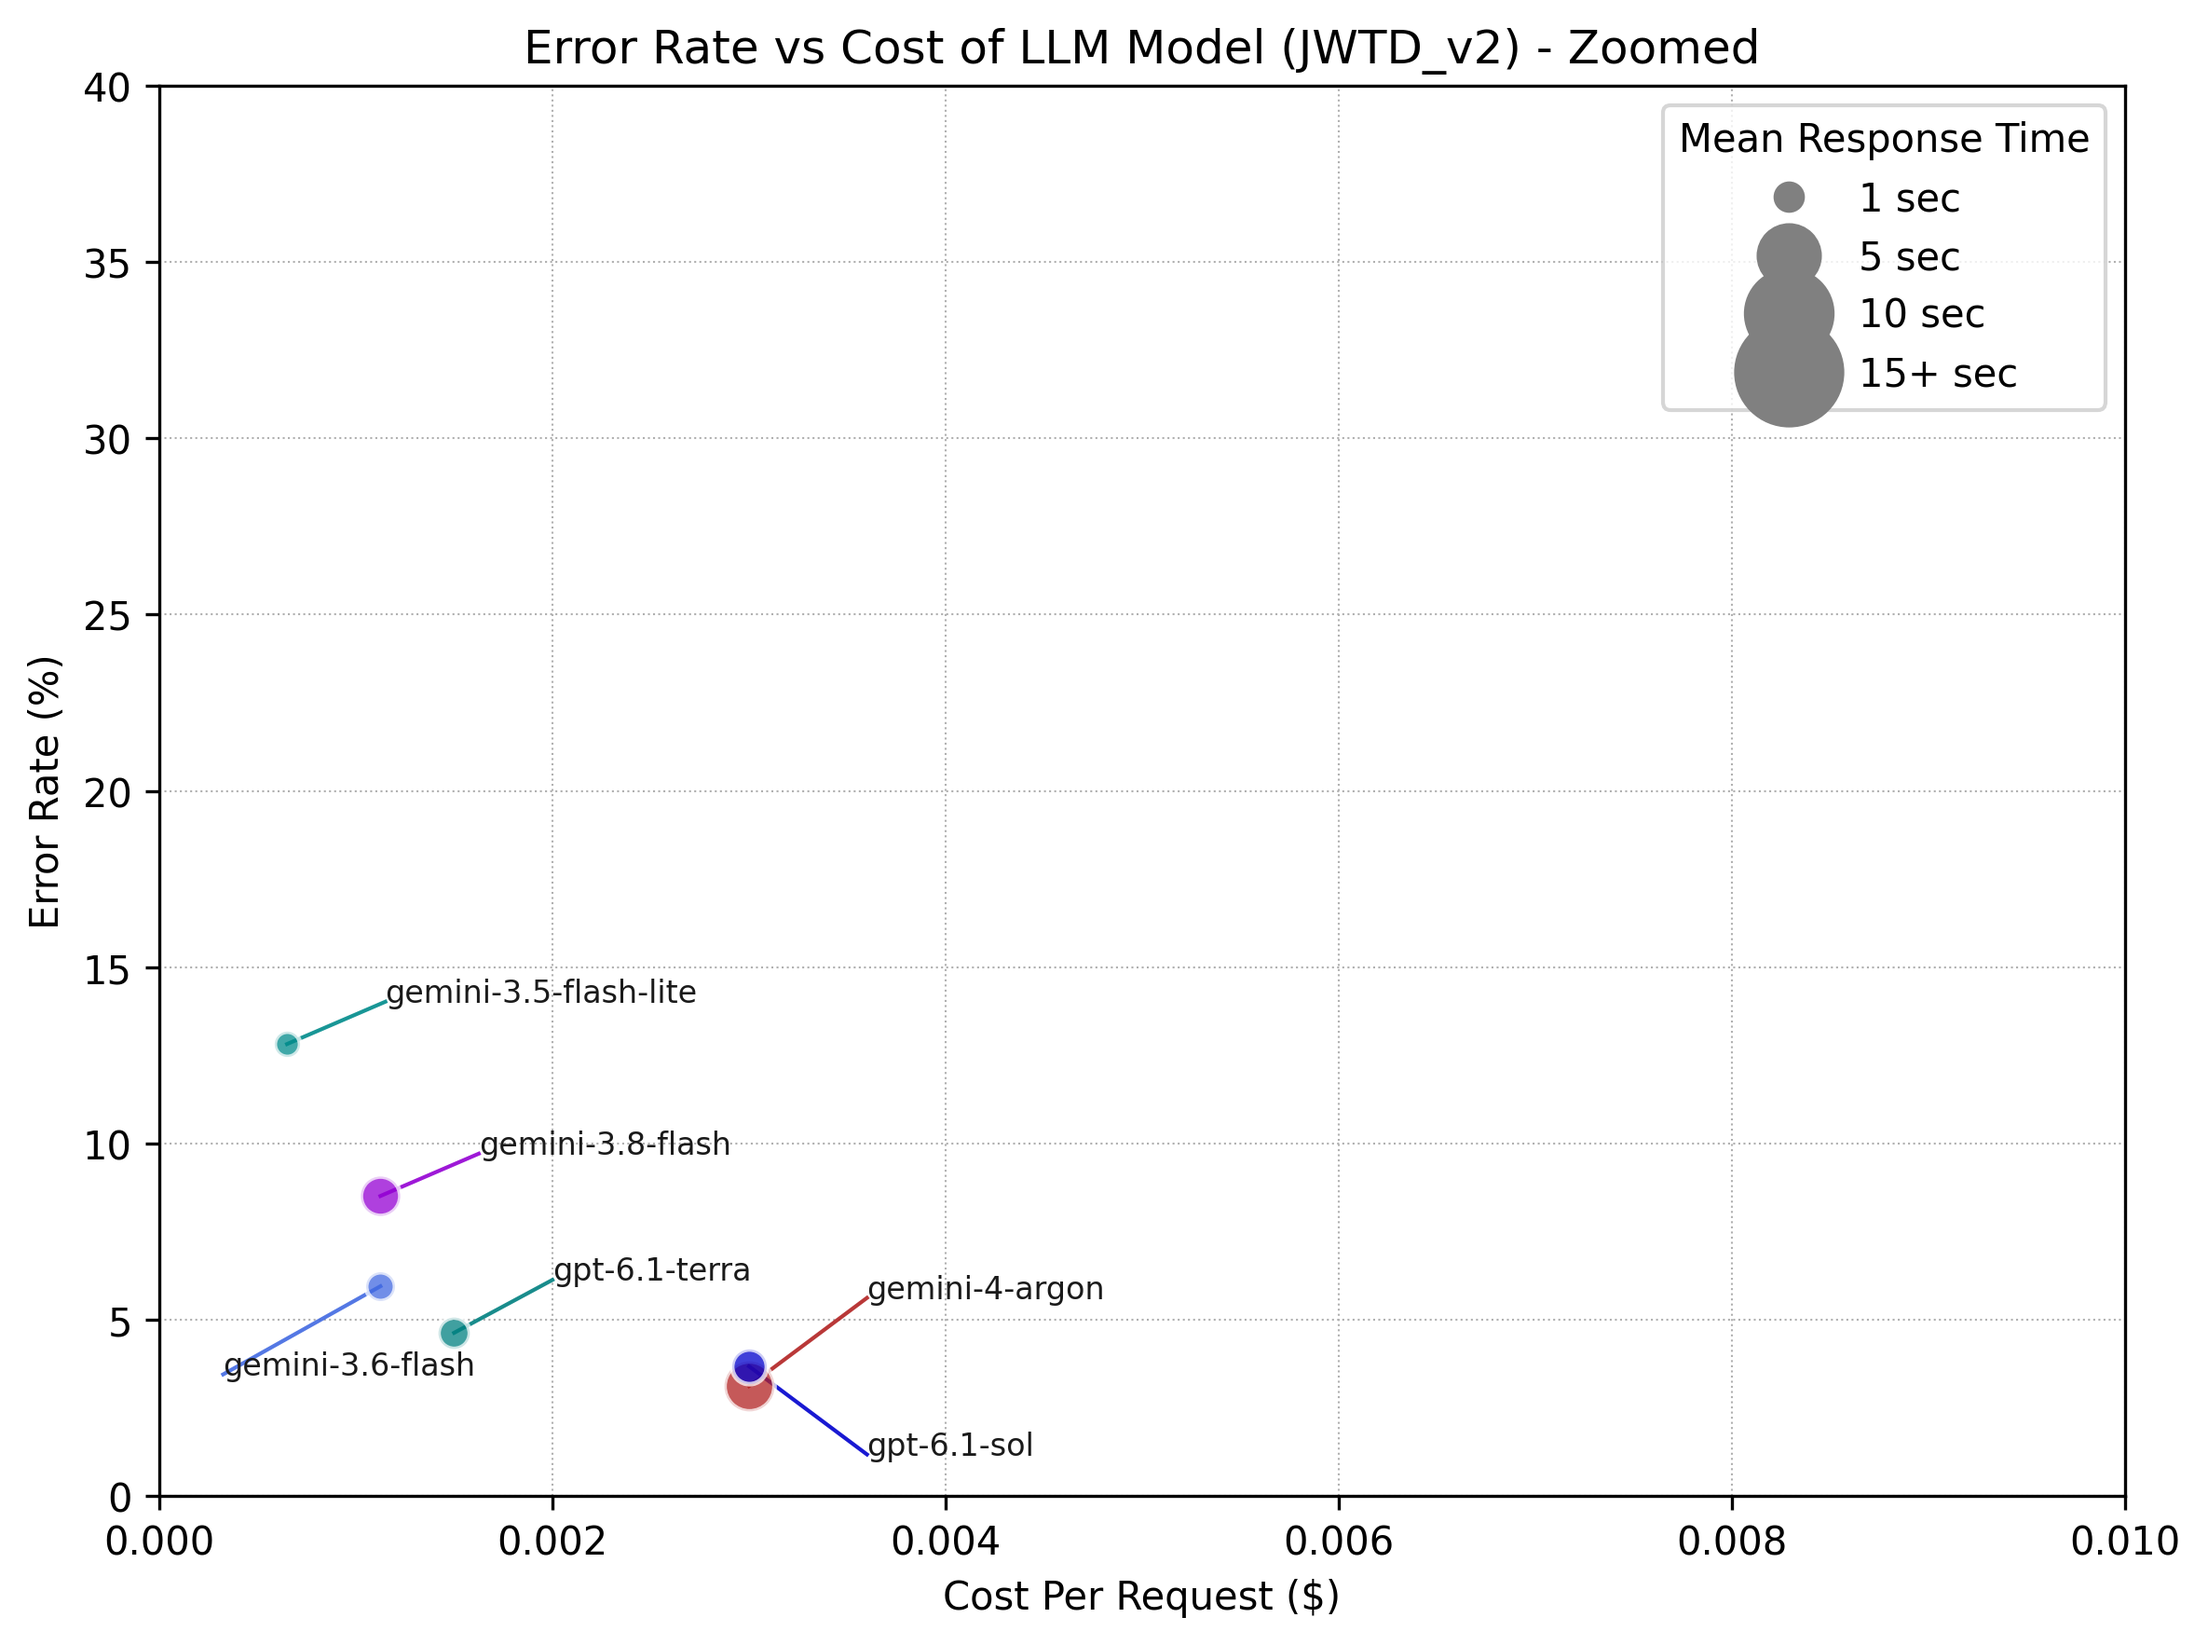
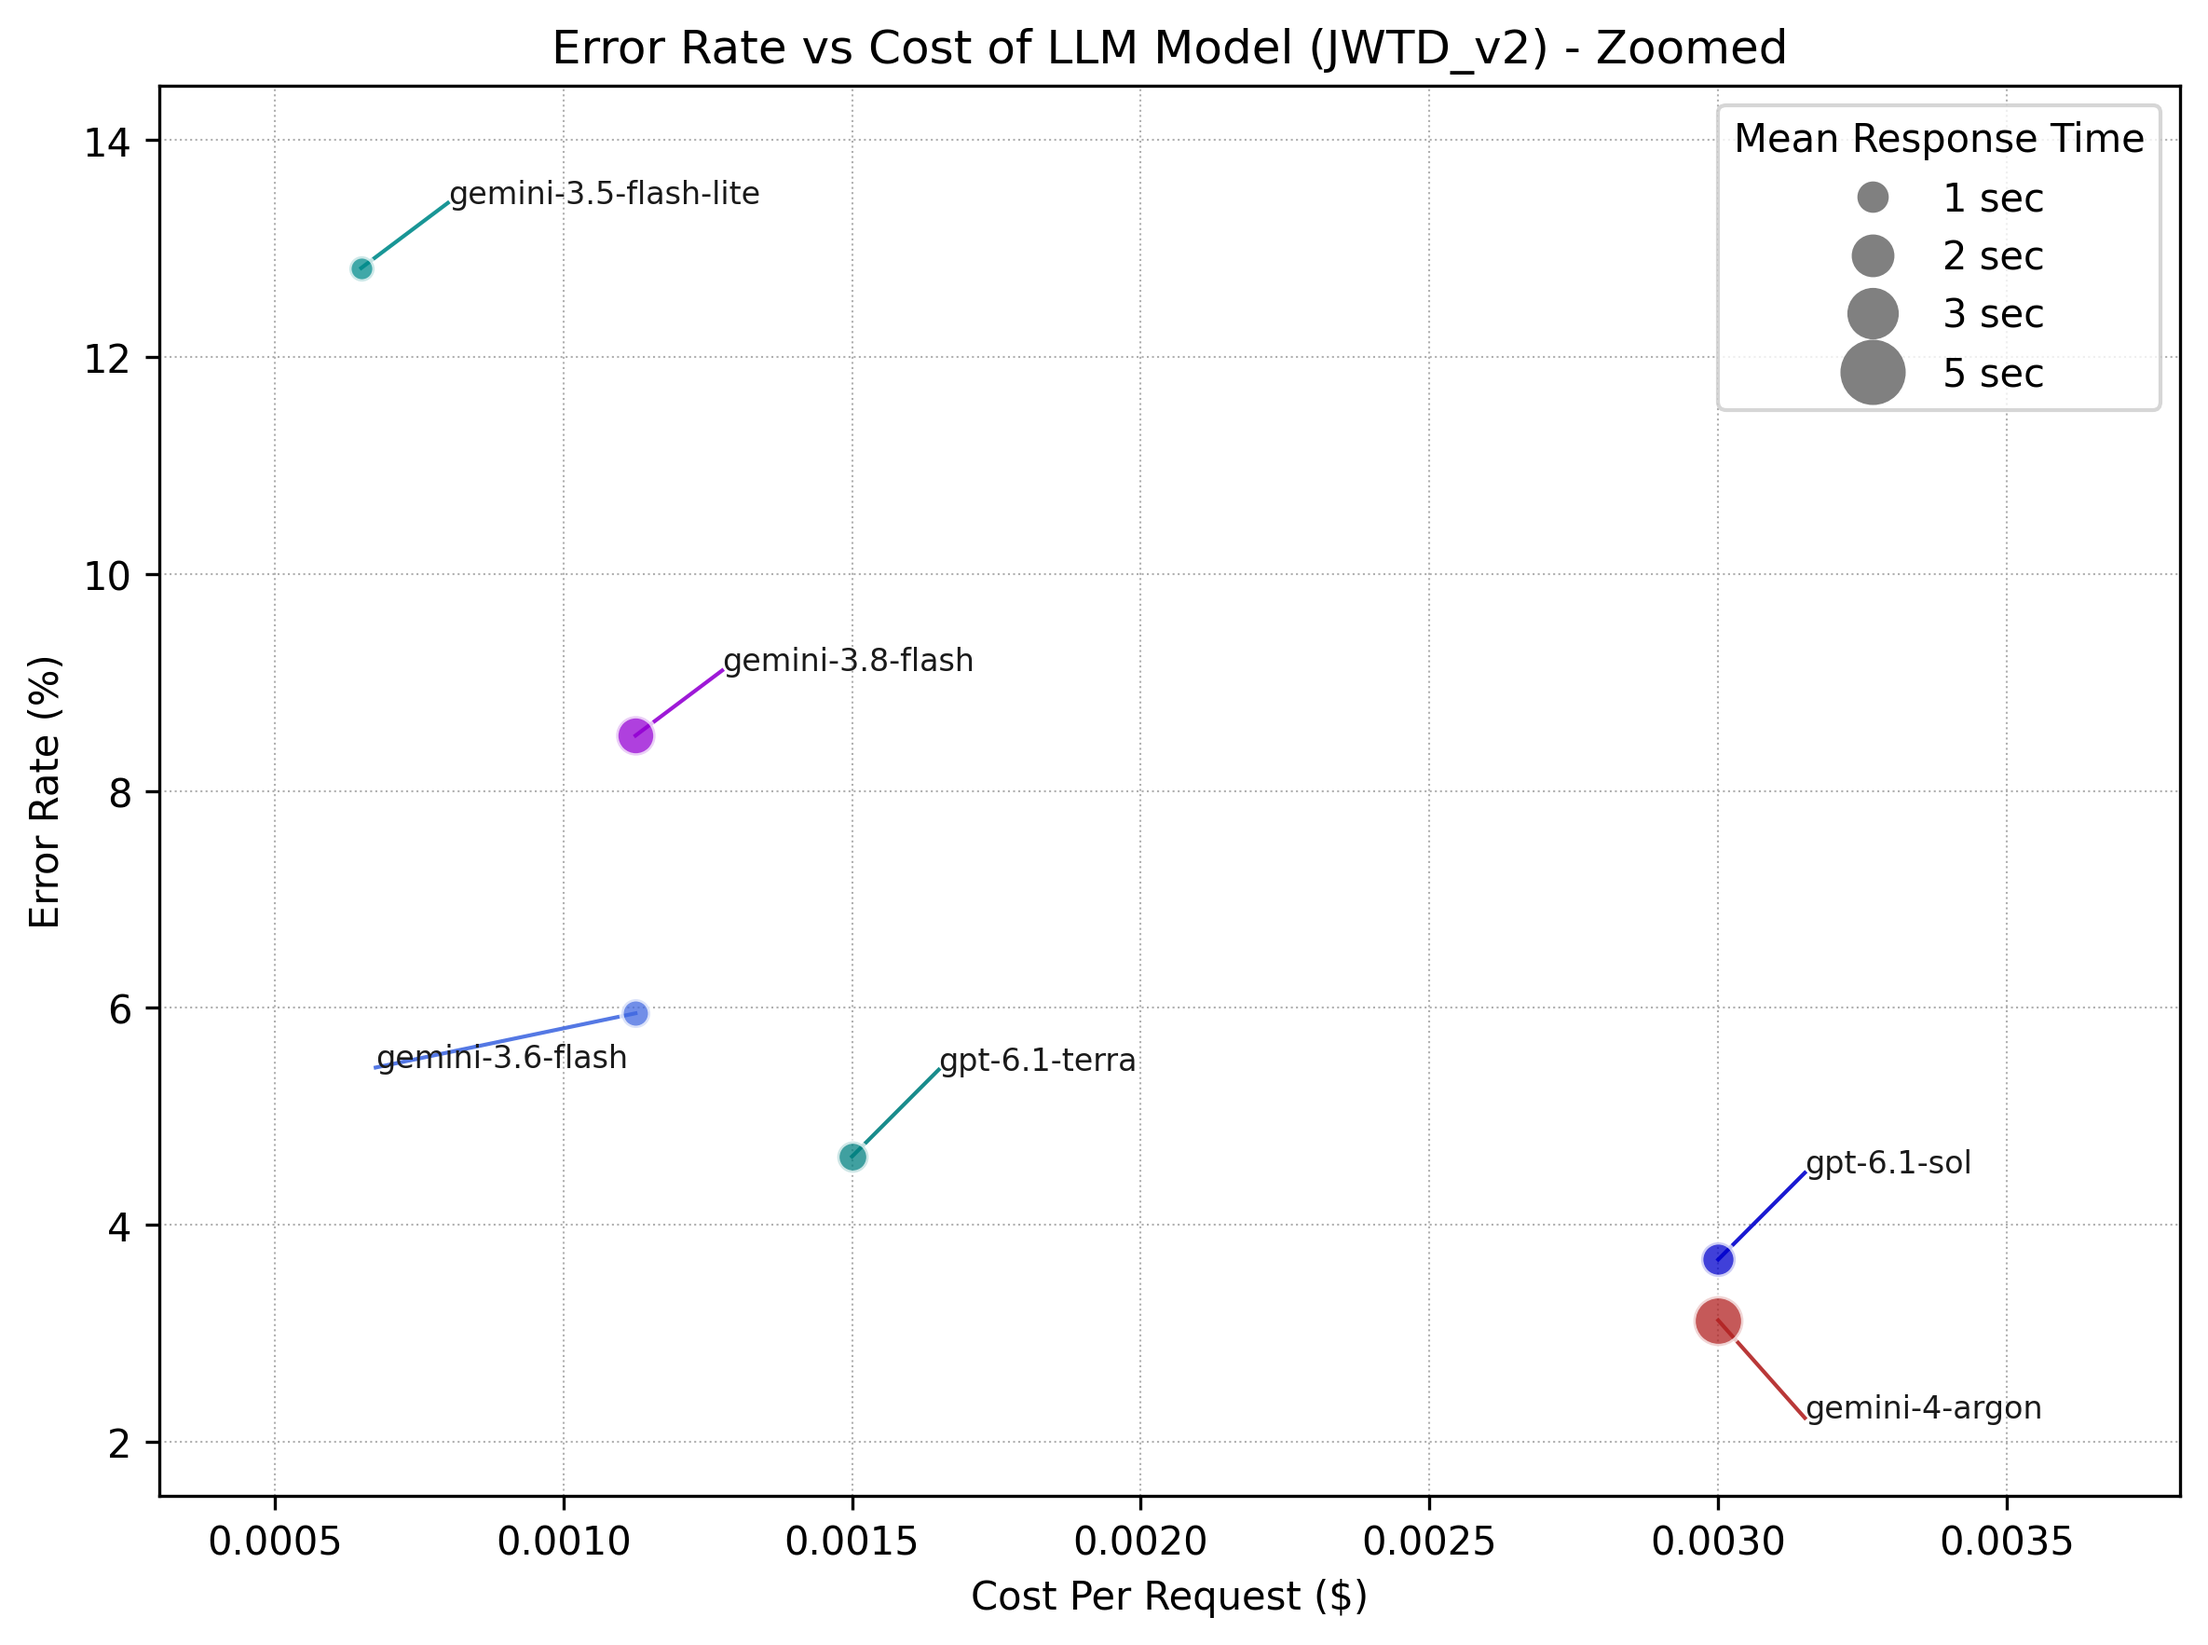
Narrow zoomed axes in error rate vs cost plot to fill data spaciously (#205)

diff --git a/benchmark/plot_errorrate_vs_cost_jwtd_v2.py b/benchmark/plot_errorrate_vs_cost_jwtd_v2.py
@@ -78,9 +78,12 @@ def _darken_for_readability(color_name: str) -> str:
     return override.get(color_name, color_name)
 
 
-def build_legend():
+def build_legend(range_mode: int = 0):
     """平均応答時間の凡例を描画"""
-    seconds_legend = [1, 5, 10, SIZE_CAP_SEC]
+    if range_mode == 1:
+        seconds_legend = [1, 2, 3, 5]
+    else:
+        seconds_legend = [1, 5, 10, SIZE_CAP_SEC]
     legend_size_handles: List[Line2D] = []
     for sec in seconds_legend:
         size = sec * SCALE
@@ -114,7 +117,7 @@ def main():
         type=int,
         default=0,
         choices=[0, 1],
-        help="Axis range mode: 0=default (0-70%%, auto x), 1=zoomed (0-40%%, 0-0.010$)",
+        help="Axis range mode: 0=default (0-70%%, auto x), 1=zoomed (1.5-14.5%%, 0.0003-0.0038$)",
     )
     args = parser.parse_args()
 
@@ -127,14 +130,24 @@ def main():
     ]
     plottable.sort(key=lambda kv: kv[1]["elapsed"], reverse=True)
 
-    label_positions = {
-        "gemini-3.5-flash-lite": (0.000650 + 0.0005, 12.82 + 1.2),
-        "gemini-3.8-flash":      (0.001125 + 0.0005, 8.51 + 1.2),
-        "gemini-3.6-flash":      (0.001125 - 0.0008, 5.95 - 2.5),
-        "gemini-4-argon":        (0.003000 + 0.0006, 3.12 + 2.5),
-        "gpt-6.1-terra":         (0.001500 + 0.0005, 4.63 + 1.5),
-        "gpt-6.1-sol":           (0.003000 + 0.0006, 3.68 - 2.5),
-    }
+    if args.range == 0:
+        label_positions = {
+            "gemini-3.5-flash-lite": (0.000650 + 0.0005, 12.82 + 1.2),
+            "gemini-3.8-flash":      (0.001125 + 0.0005, 8.51 + 1.2),
+            "gemini-3.6-flash":      (0.001125 - 0.0008, 5.95 - 2.5),
+            "gemini-4-argon":        (0.003000 + 0.0006, 3.12 + 2.5),
+            "gpt-6.1-terra":         (0.001500 + 0.0005, 4.63 + 1.5),
+            "gpt-6.1-sol":           (0.003000 + 0.0006, 3.68 - 2.5),
+        }
+    else:
+        label_positions = {
+            "gemini-3.5-flash-lite": (0.000650 + 0.00015, 12.82 + 0.6),
+            "gemini-3.8-flash":      (0.001125 + 0.00015, 8.51 + 0.6),
+            "gemini-3.6-flash":      (0.001125 - 0.00045, 5.95 - 0.5),
+            "gpt-6.1-terra":         (0.001500 + 0.00015, 4.63 + 0.8),
+            "gpt-6.1-sol":           (0.003000 + 0.00015, 3.68 + 0.8),
+            "gemini-4-argon":        (0.003000 + 0.00015, 3.12 - 0.9),
+        }
 
     ax = plt.gca()
 
@@ -185,10 +198,10 @@ def main():
         plt.ylim(0, 70)
         plt.xlim(-0.0005, 0.024)  # v1 と同じX軸スケール感
     elif args.range == 1:
-        plt.ylim(0, 40)
-        plt.xlim(0, 0.010)
+        plt.ylim(1.5, 14.5)
+        plt.xlim(0.0003, 0.0038)
 
-    build_legend()
+    build_legend(args.range)
 
     plt.tight_layout()
 
